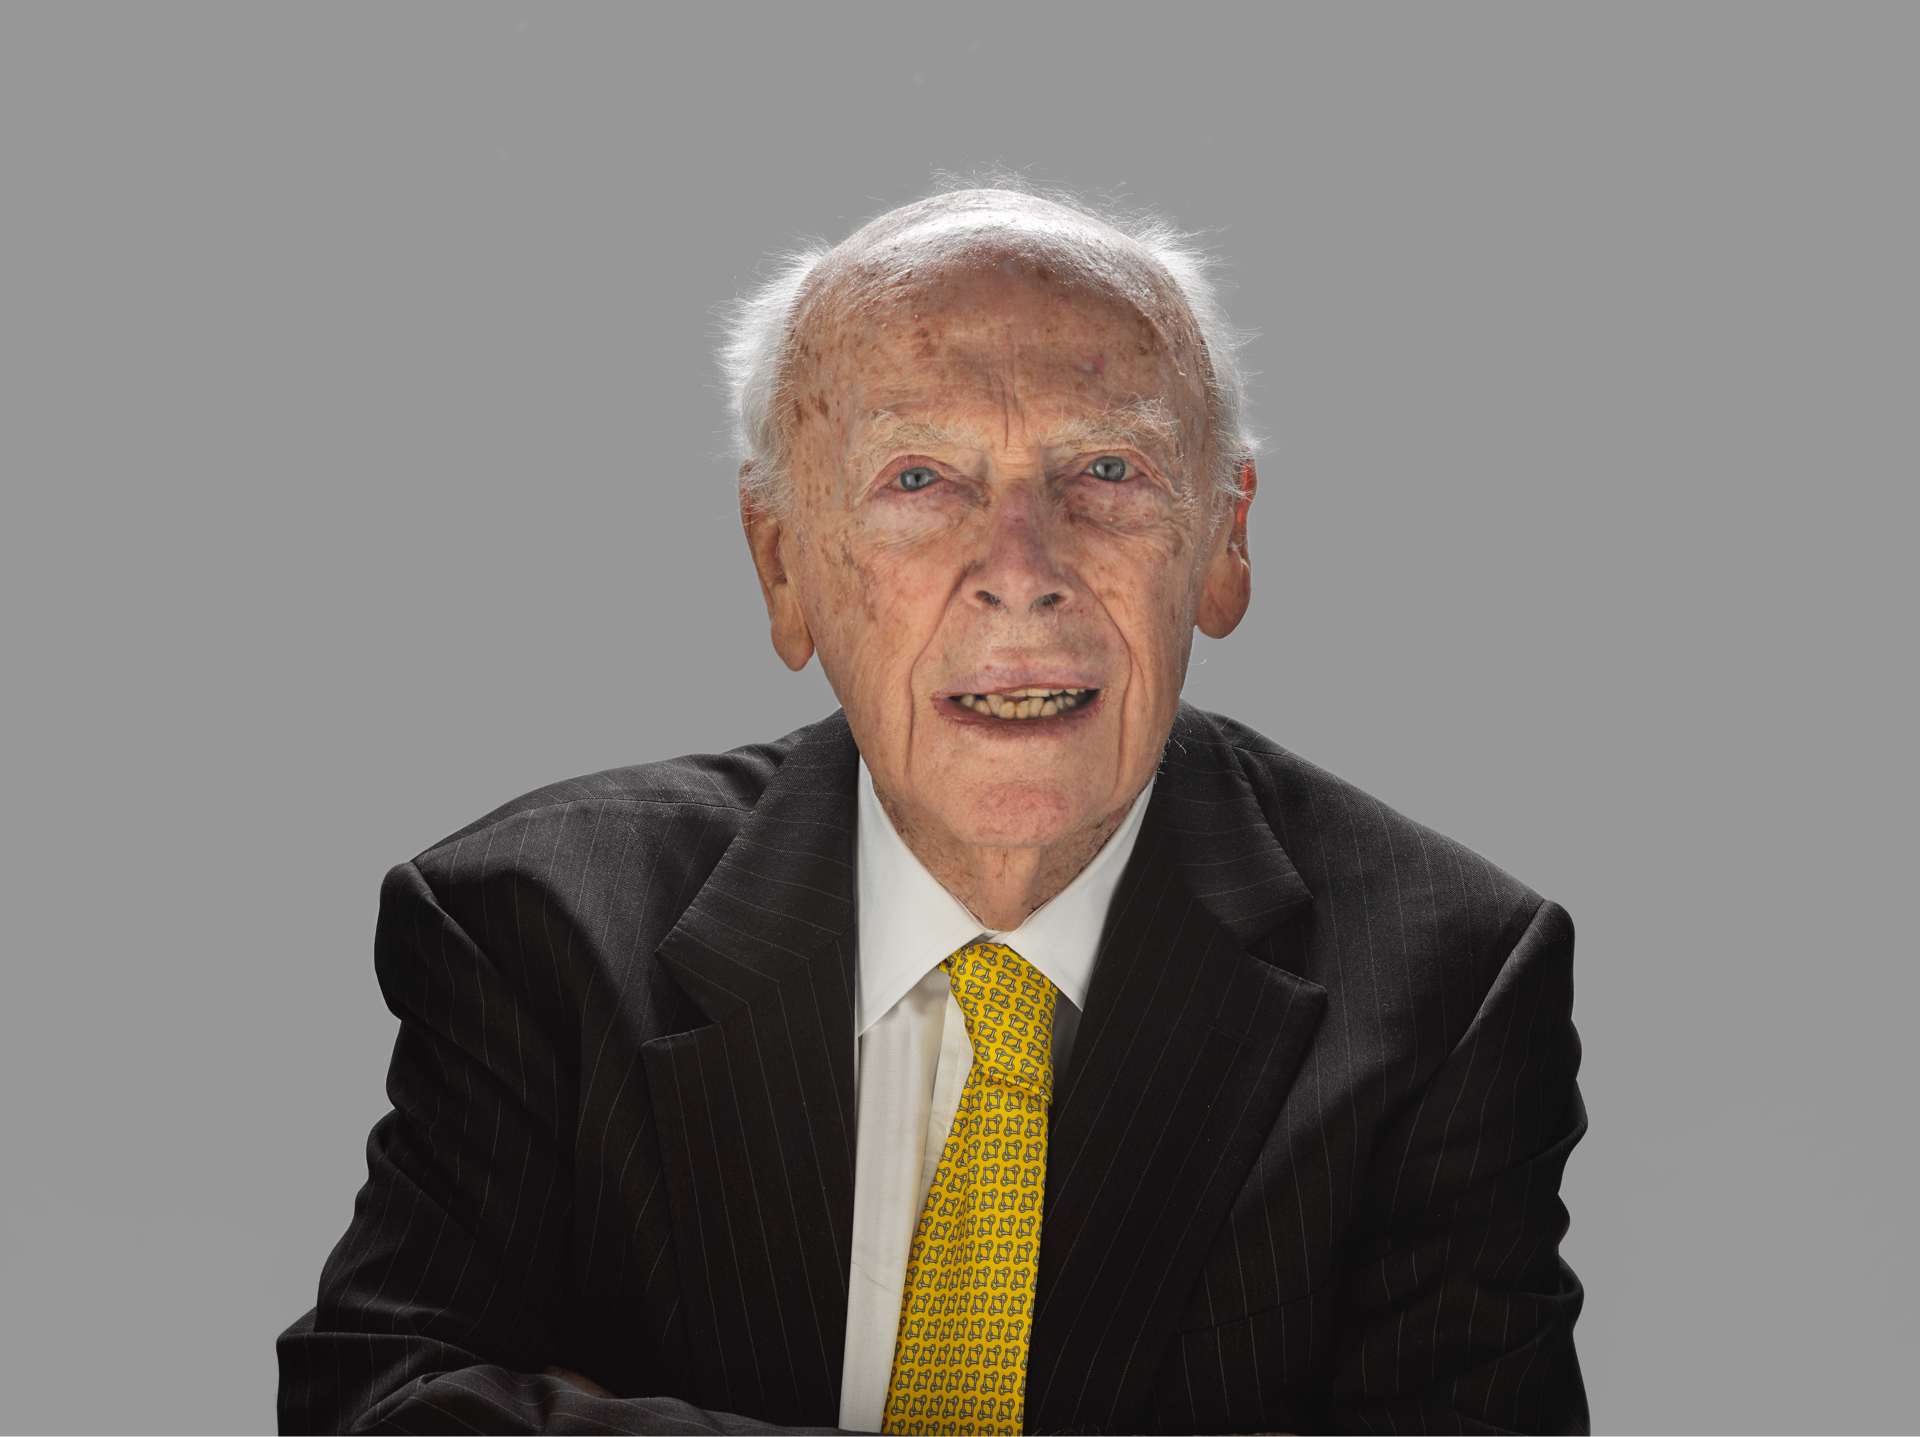
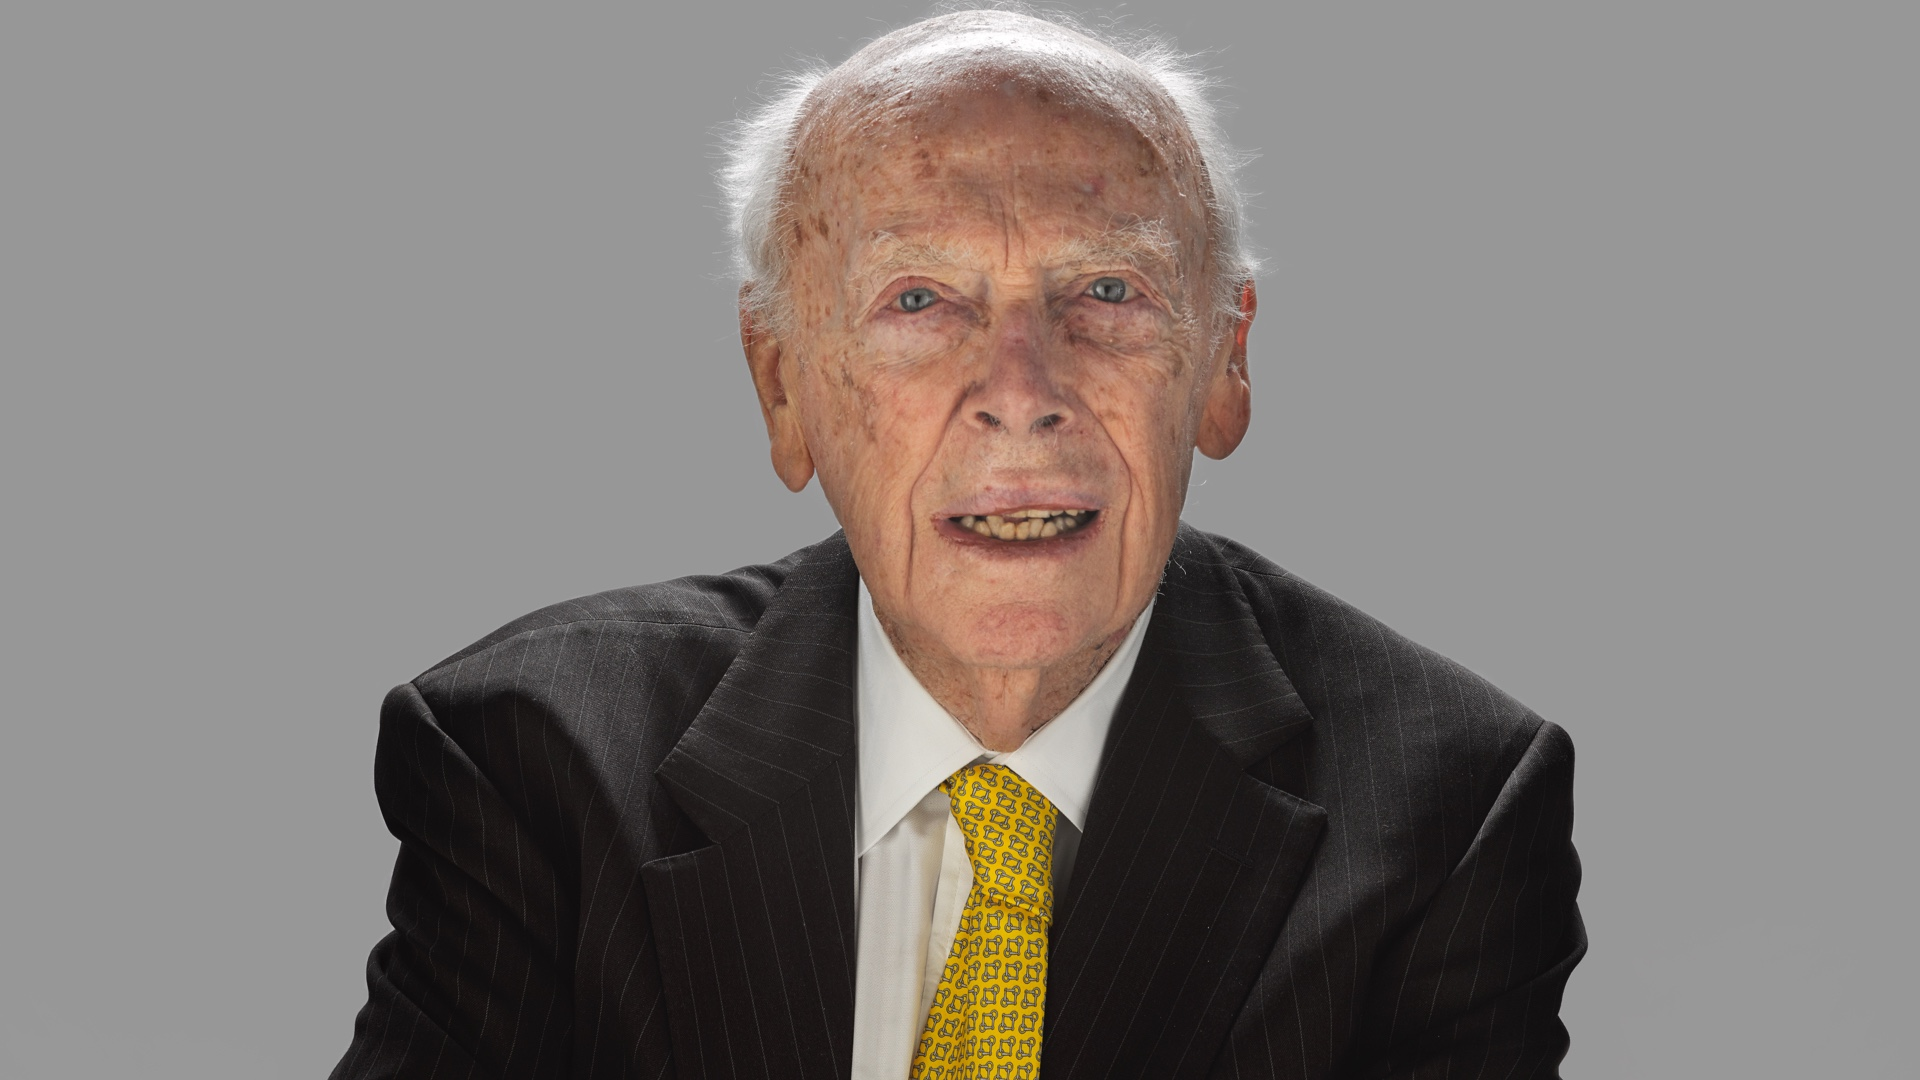
IMAGE CROPPING FIXED! Image now correctly displays area selected via the crop on the KMS. Added Keyframe for animating the zoom controls in; may not keep this.

diff --git a/src/components/ZoomableImage.jsx b/src/components/ZoomableImage.jsx
@@ -94,7 +94,7 @@ class ZoomableImage extends React.Component {
         // const { offsetWidth, offsetHeight } = this.container;
         const { fullscreen } = this.state;
 
-        console.log(this.initialHeight, this.initialScale, this.initialWidth);
+        // console.log(this.initialHeight, this.initialScale, this.initialWidth);
 
         if (fullscreen !== prevState.fullscreen) {
             // console.log('ZoomableImage: componentDidUpdate: change in fullscreen');
@@ -190,17 +190,29 @@ class ZoomableImage extends React.Component {
             y: (this.image.naturalHeight * this.asset.boundingBox.y),
         };
 
-        let scale = 1;
+        const scale = 1;
 
-        if (this.container.offsetWidth < pixels.width) {
-            scale = 1 - (1 - (this.container.offsetWidth / pixels.width));
-        } else if (this.container.offsetWidth > pixels.width) {
-            scale = 1 + (1 - (pixels.width / this.container.offsetWidth));
-        }
+        // console.log('pixels: ', pixels);
+        // console.log('this.image.naturalWidth | this.asset.boundingBox.width = pixels.width: ', this.image.naturalWidth, '|', this.asset.boundingBox.width, '| pixels.width = ', (this.image.naturalWidth * this.asset.boundingBox.width));
+        // console.log('this.image.naturalHeight | this.asset.boundingBox.height = pixels.height: ', this.image.naturalHeight, '|', this.asset.boundingBox.height, '| pixels.height = ', (this.image.naturalHeight * this.asset.boundingBox.height));
+        // console.log('this.asset.boundingBox.x: ', this.asset.boundingBox.x);
+        // console.log('this.asset.boundingBox.y: ', this.asset.boundingBox.y);
+        // console.log('this.container: ', this.container);
+        // console.log('this.container.offsetWidth: ', this.container.offsetWidth);
+
+        const difference = this.container.offsetWidth - pixels.width;
+        const percentage = difference / pixels.width;
+
+        // console.log('this.imageContainer: ', this.imageContainer);
+
+        this.imageContainer.style.width = `${pixels.width}px`;
+        this.imageContainer.style.height = `${pixels.height}px`;
+        this.imageContainer.style.transformOrigin = 'top left';
+        this.imageContainer.style.transform = `scale(${percentage + 1})`;
 
         const style = {
-            marginLeft: `-${(pixels.x * scale)}px`,
-            marginTop: `-${(pixels.y * scale)}px`,
+            marginLeft: `-${(pixels.x)}px`,
+            marginTop: `-${(pixels.y)}px`,
             transform: `scale(${scale})`,
             transformOrigin: 'top left',
         };
@@ -490,7 +502,7 @@ class ZoomableImage extends React.Component {
         this.curWidth = Math.ceil(this.imgWidth * this.scale);
         this.curHeight = Math.ceil(this.imgHeight * this.scale);
 
-        console.log(this.curHeight, this.curWidth, this.imgWidth, this.imgHeight);
+        console.log('Logging curHeight, curWidth, imgWidth, imgHeight: ', this.curHeight, this.curWidth, this.imgWidth, this.imgHeight);
 
         this.x = Math.ceil((this.viewportWidth / 2) - (this.curWidth / 2));
         this.y = Math.ceil((this.viewportHeight / 2) - (this.curHeight / 2));
@@ -511,8 +523,8 @@ class ZoomableImage extends React.Component {
         let top = 0;
 
         if (
-            typeof this.asset != 'undefined' &&
-            typeof this.asset.boundingBox != 'undefined'
+            typeof this.asset !== 'undefined'
+            && typeof this.asset.boundingBox !== 'undefined'
         ) {
             left = (this.image.offsetWidth * this.asset.boundingBox.x);
             top = (this.image.offsetHeight * this.asset.boundingBox.y);
@@ -526,7 +538,6 @@ class ZoomableImage extends React.Component {
             left,
             top,
         }, this.calculateImageStyle);
-
     }
 
 
@@ -589,7 +600,6 @@ class ZoomableImage extends React.Component {
     }
 
     switchImgSrc(fullscreen) {
-
         this.imgSrc = (fullscreen ? this.fullSrc : this.thumbSrc);
         this.setState({ imgSrc: this.imgSrc });
     }
@@ -618,36 +628,41 @@ class ZoomableImage extends React.Component {
         const zoomed = fullscreen ? 'zoomedIn' : 'zoomedOut';
 
         const zoomIconClass = (!fullscreen) ? 'icon-enlarge-img' : 'icon-close';
-        
+
 
         return (
             <div
                 className={`ZoomableImage ZoomableImage--${zoomed}`}
                 ref={(ref) => { this.container = ref; }}
             >
-                <Hammer
-                    onPinch={this.handlePinch}
-                    onPinchEnd={this.handlePinchEnd}
-                    onPan={this.handlePan}
-                    onPanEnd={this.handlePanEnd}
-                    onDoubleTap={this.handleDoubleTap}
-                    options={{
-                        recognizers: {
-                            pinch: { enable: true },
-                        },
-                    }}
+                <div
+                    className="imageContainer"
+                    ref={(ref) => { this.imageContainer = ref; }}
+                    style={{ height: '100%' }}
                 >
-                    <div>
-                        <img
-                            src={imgSrc}
-                            alt=""
-                            ref={(ref) => { this.image = ref; }}
-                            onLoad={this.handleImageLoad}
-                            style={this.getImageStyle()}
-                        />
-                    </div>
-
-                </Hammer>
+                    <Hammer
+                        onPinch={this.handlePinch}
+                        onPinchEnd={this.handlePinchEnd}
+                        onPan={this.handlePan}
+                        onPanEnd={this.handlePanEnd}
+                        onDoubleTap={this.handleDoubleTap}
+                        options={{
+                            recognizers: {
+                                pinch: { enable: true },
+                            },
+                        }}
+                    >
+                        <div className="innerContainer">
+                            <img
+                                src={imgSrc}
+                                alt=""
+                                ref={(ref) => { this.image = ref; }}
+                                onLoad={this.handleImageLoad}
+                                style={this.getImageStyle()}
+                            />
+                        </div>
+                    </Hammer>
+                </div>
 
                 <button
                     className="Button Button--icon ZoomableImage__ZoomButton"

diff --git a/src/temp-mock.html b/src/temp-mock.html
@@ -1,0 +1,110 @@
+<!DOCTYPE html>
+<html lang="en">
+<head>
+    <meta charset="UTF-8">
+    <title>Testing</title>
+</head>
+<body>
+<span class="redbox" id="redbox"></span>
+<div class="bluebox" id="bluebox">
+    <div class="greenboxContainer">
+        <img src="../public/media/02.jpg" alt="test" />
+    </div>
+</div>
+<div class="greenbox">
+</div>
+<img src="../public/media/02.jpg" alt="test" class="main" id="bigboy" />
+<a class="toggleMe" id="toggleting" href="#">Toggle ting</a>
+<script type="text/Javascript">
+    window.havewetoggledyet = false;
+    var button = document.getElementById('toggleting');
+    var bigboy = document.getElementById('bigboy');
+    var redbox = document.getElementById('redbox');
+    var bluebox = document.getElementById('bluebox');
+    button.addEventListener("click", function(e) {
+        // if(window.havewetoggledyet) {
+            // return;
+
+            var lilwidth = bluebox.offsetWidth;
+            var bigbox = redbox.offsetWidth;
+
+            var diff = bigbox-lilwidth;
+
+            var perc = diff / lilwidth;
+
+            bluebox.style.transform = 'scale(' + (perc+1) + ')';
+        // }
+
+    });
+
+</script>
+</body>
+<style>
+    body,
+    html {
+        margin: 0;
+        padding: 0;
+        width: 1920px;
+        height: 1080px;
+        position: relative;
+    }
+    .toggleMe {
+        position:absolute;
+        display:block;
+        background:blue;
+        color:#fff;
+        padding:10px 20px;
+        right:0;
+        margin-right:30px;
+        margin-top:30px;
+    }
+    img.main {
+        position: absolute;
+        left: 0;
+        top: 0;
+        z-index: -1;
+    }
+    .redbox {
+        position: absolute;
+        width: 910px;
+        height: 1080px;
+        left: 0;
+        top: 0;
+        box-shadow: 0px 0px 0px 5px red inset;
+        z-index: 1;
+    }
+    .bluebox {
+        position: absolute;
+        width: 499.2px;
+        height: 594px;
+        /*left: 384px;*/
+        /*top: 216px;*/
+        box-shadow: 0px 0px 0px 5px blue inset;
+        transform: scale(1);
+        transform-origin: top left;
+    }
+    .greenbox {
+        position: absolute;
+        width: 1920px;
+        height: 1080px;
+        left: 0;
+        top: 0;
+        box-shadow: 0px 0px 0px 5px green inset;
+    }
+    .greenboxContainer {
+        width:100%;
+        height:100%;
+        position:relative;
+        overflow:hidden;
+    }
+    .greenboxContainer img {
+        position: absolute;
+        margin-left: -384px;
+        margin-top: -216px;
+        width: 1920px;
+        height: 1080px;
+        left: 0;
+        top: 0;
+    }
+</style>
+</html>

diff --git a/src/styles/components/ZoomableImage.scss b/src/styles/components/ZoomableImage.scss
@@ -18,12 +18,12 @@
     */
 
     img {
-        //transition: all $transitionTime-showContent ease;
         //transform-origin: top left;
         //position: absolute;
         //top: 50%;
         //transform: translateY(-50%);
         //left: 50%;
+        //transition: margin-right $transitionTime-showContent ease, margin-left $transitionTime-showContent ease;
         transition: all 0.5s ease;
     }
 
@@ -103,6 +103,13 @@
 
     &--zoomedIn &__Debug {
         //display: block;
+    }
+
+    .innerContainer {
+        width:100%;
+        height:100%;
+        position:relative;
+        overflow:hidden;
     }
 
 }

diff --git a/src/styles/components/ZoomControls.scss b/src/styles/components/ZoomControls.scss
@@ -1,3 +1,8 @@
+@keyframes enterFromBottom {
+    from { bottom: -100%; opacity: 0; }
+    to { bottom: 0; opacity: 1; }
+}
+
 .ZoomControls {
     position: absolute;
     left: 0;
@@ -14,6 +19,9 @@
     flex-direction: row;
 
     background-color: rgba(0,0,0,0.8);
+    opacity: 1;
+
+    animation: enterFromBottom .6s;
 
     .Button {
 
